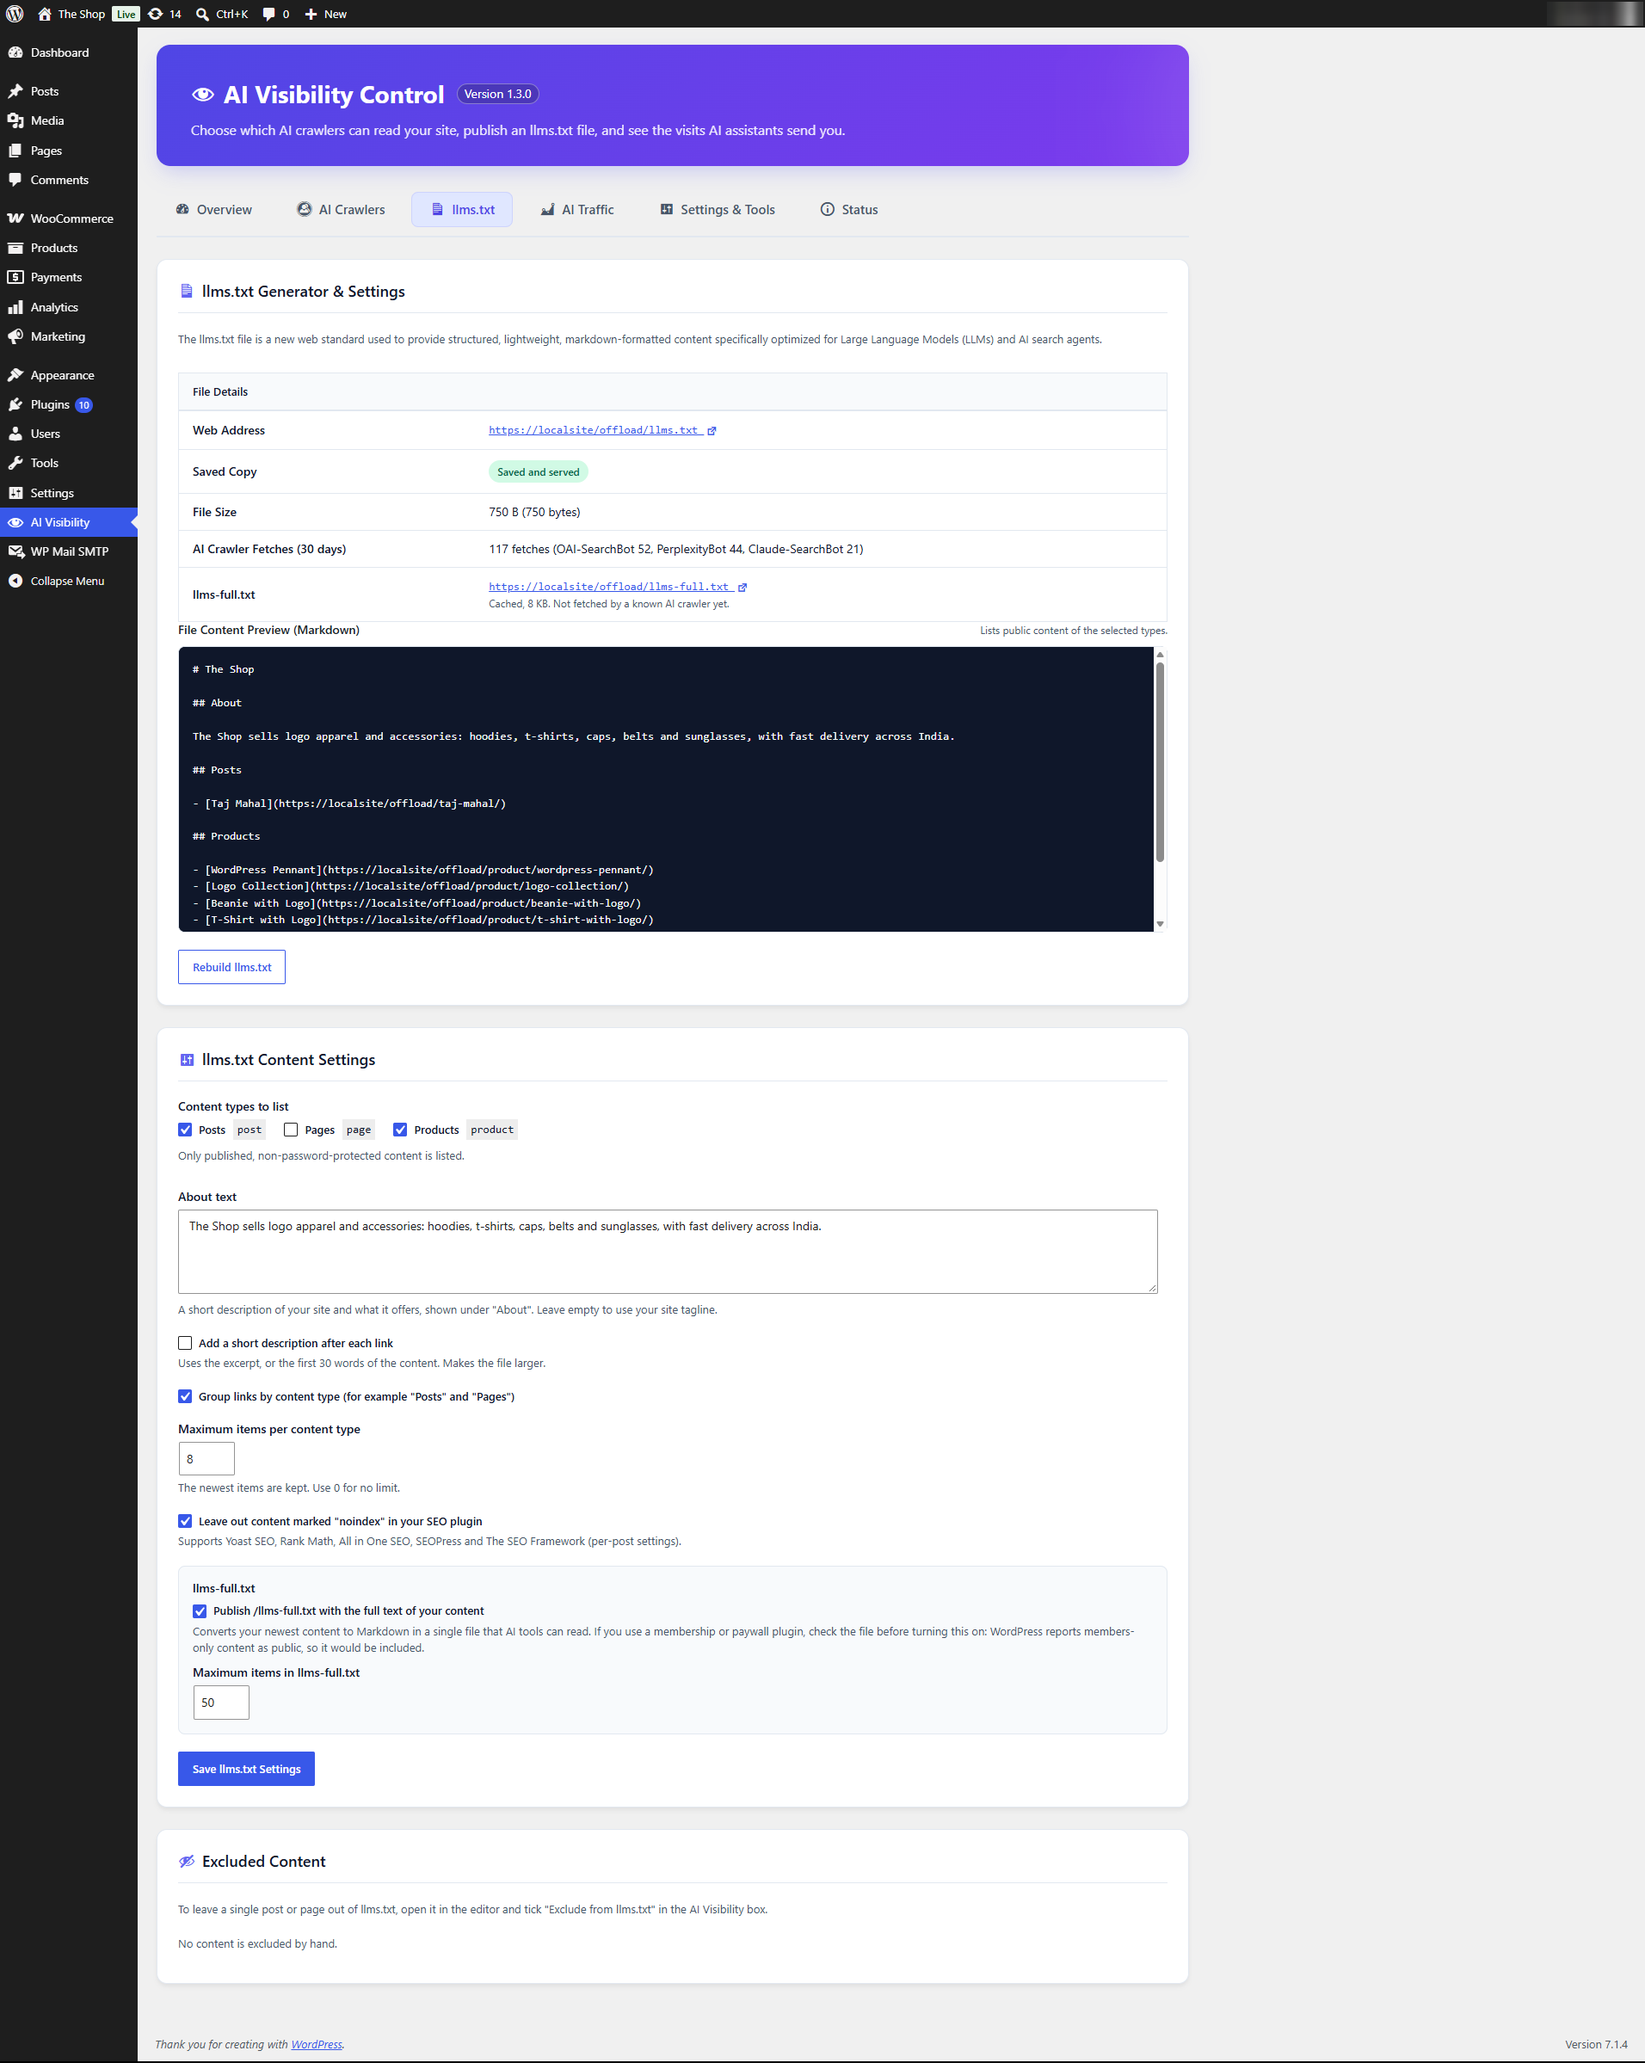
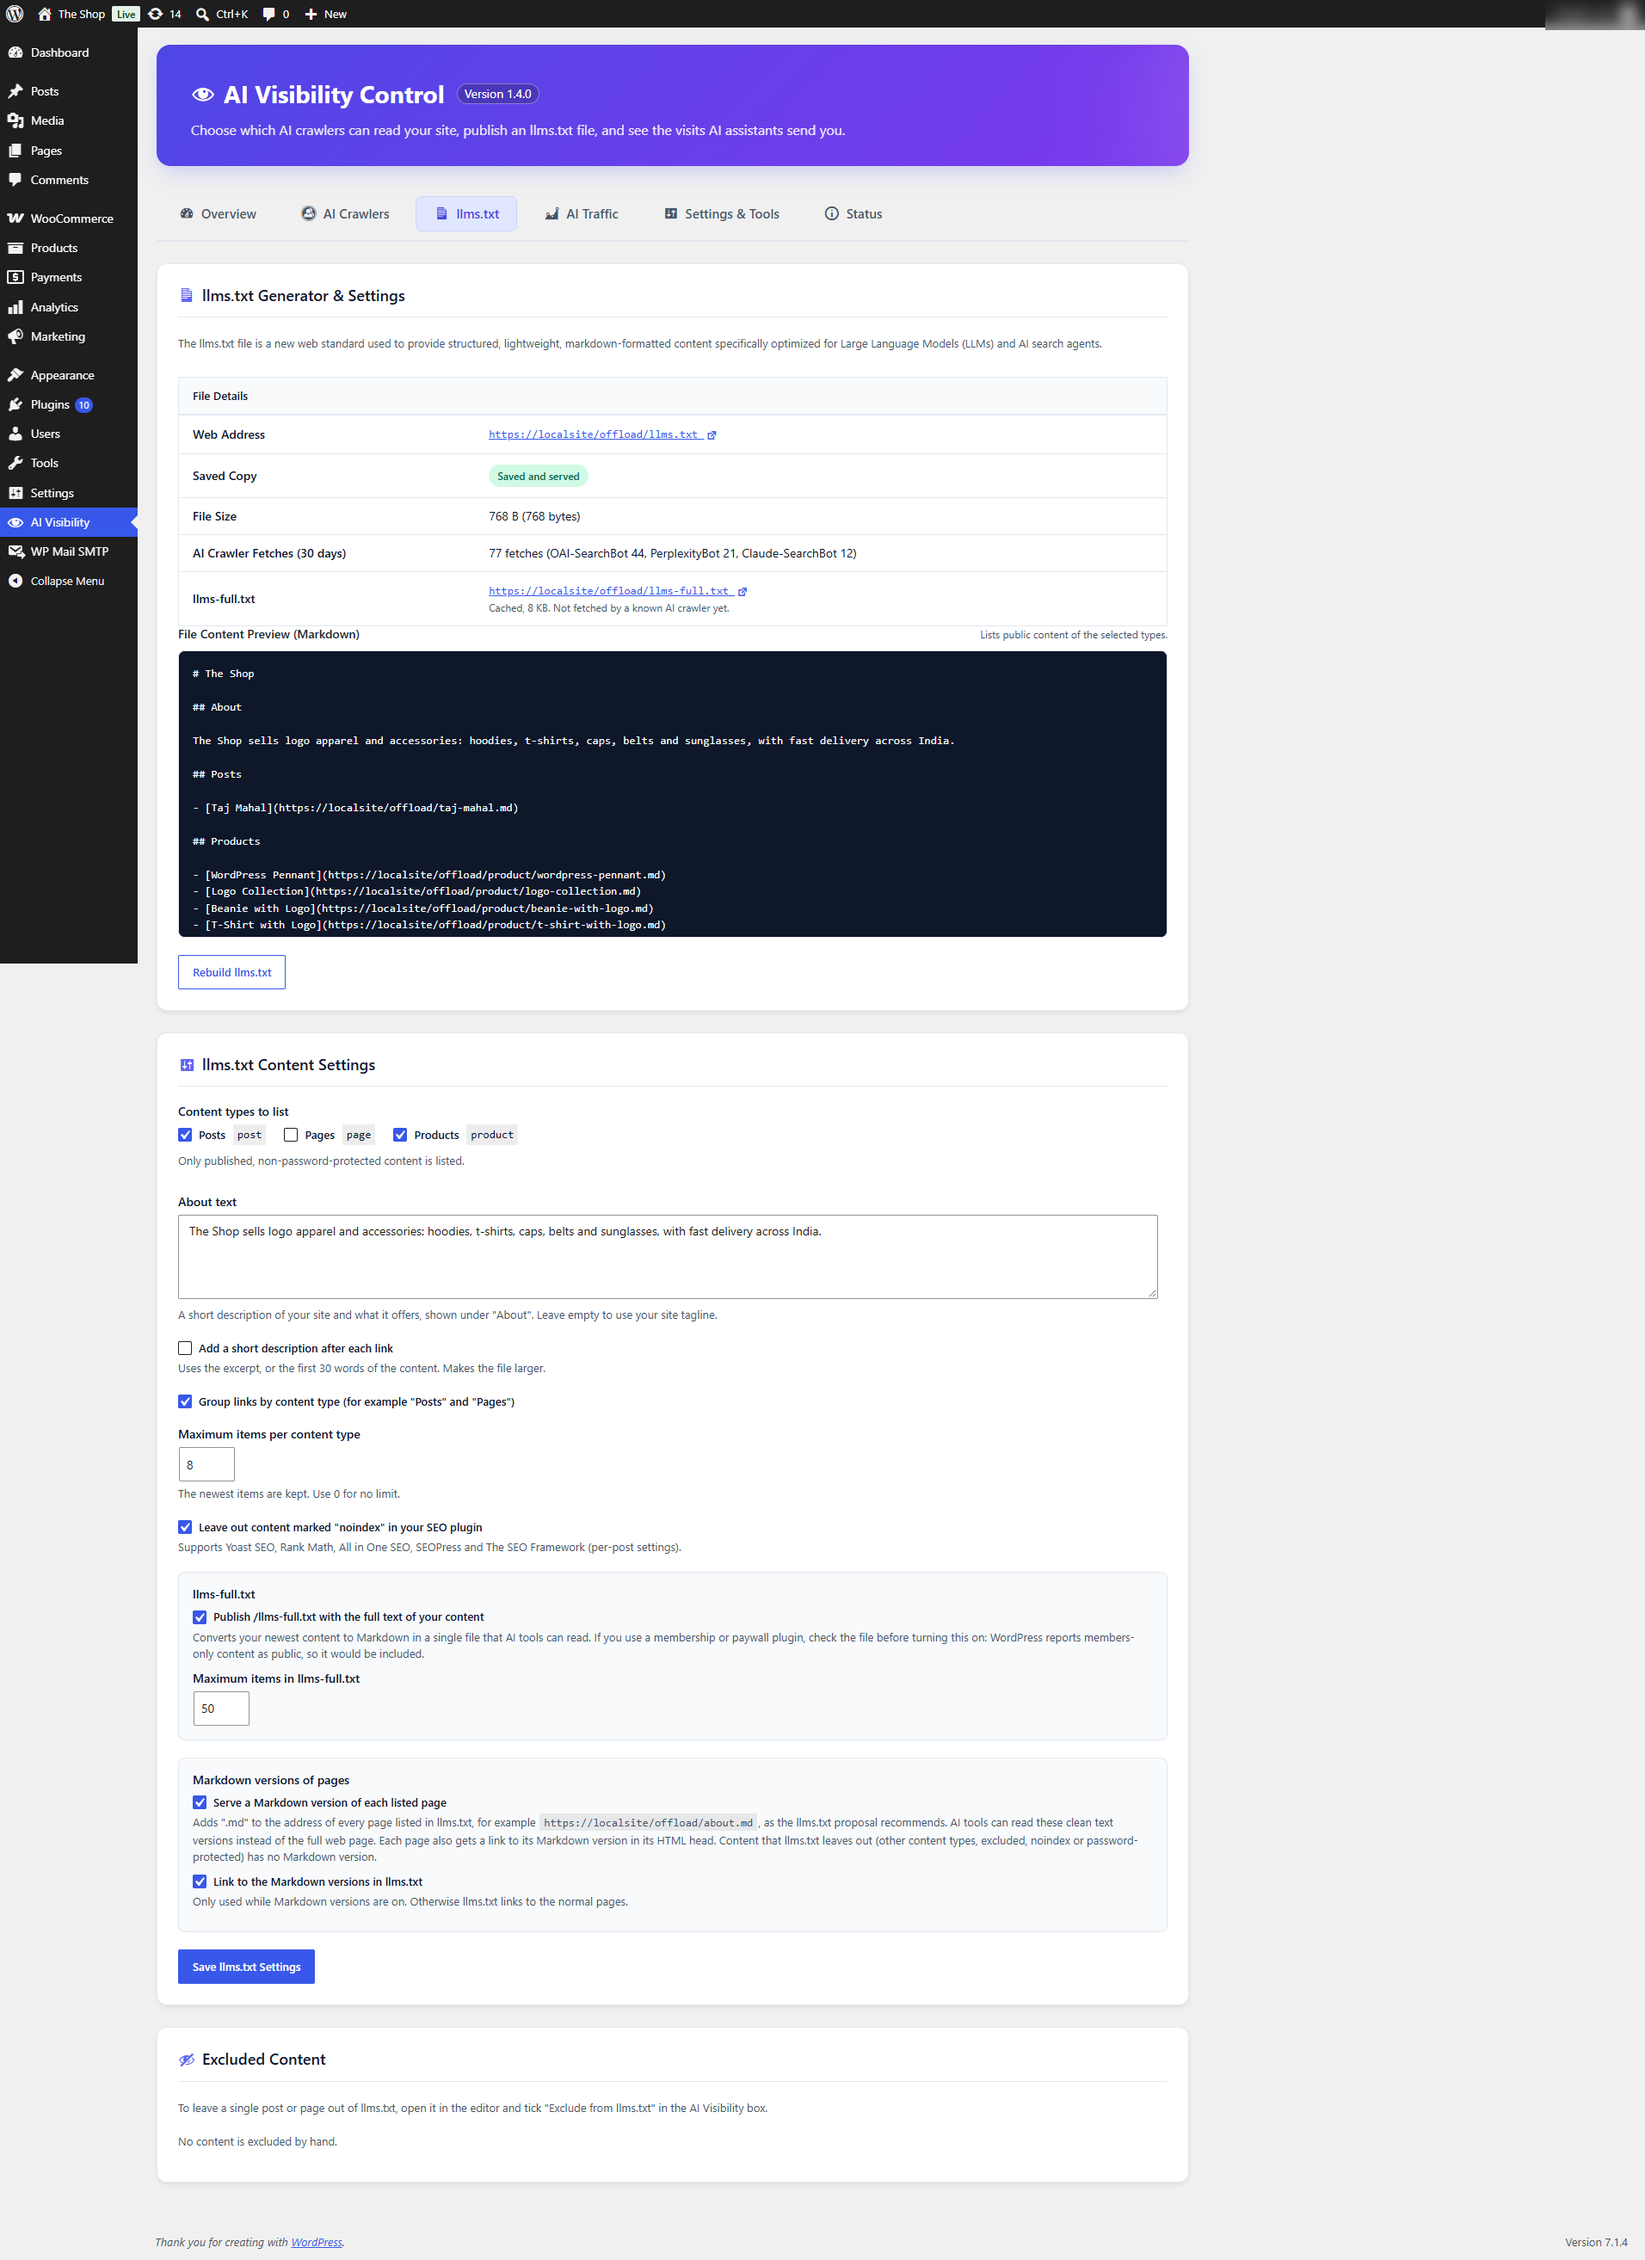
Update screenshots for 1.4.0 and fix the AI Traffic range highlight
- New WordPress.org screenshots showing crawler enforcement, the rate
  limit, refused requests, Markdown pages, the richer WooCommerce report
  and the weekly or monthly summary email. Account name and admin email
  are blurred.
- Fix: the selected 7, 30 or 90-day range was never highlighted on the
  AI Traffic tab because PHP stores numeric array keys as integers and the
  comparison was strict.
- Update the screenshot captions and the 1.4.0 changelog.

diff --git a/admin/partials/tavc-admin-referrals.php b/admin/partials/tavc-admin-referrals.php
@@ -111,7 +111,8 @@ $tavc_bar_width  = max( 1, $tavc_slot_width * 0.7 );
 					)
 				);
 				?>
-				<a href="<?php echo esc_url( $tavc_range_url ); ?>" class="tavc-range-link<?php echo $tavc_range_key === $tavc_range ? ' is-active' : ''; ?>"<?php echo $tavc_range_key === $tavc_range ? ' aria-current="page"' : ''; ?>>
+				<?php // PHP turns numeric keys such as '30' into integers: compare as strings. ?>
+				<a href="<?php echo esc_url( $tavc_range_url ); ?>" class="tavc-range-link<?php echo (string) $tavc_range_key === $tavc_range ? ' is-active' : ''; ?>"<?php echo (string) $tavc_range_key === $tavc_range ? ' aria-current="page"' : ''; ?>>
 					<?php echo esc_html( $tavc_range_label ); ?>
 				</a>
 			<?php endforeach; ?>
